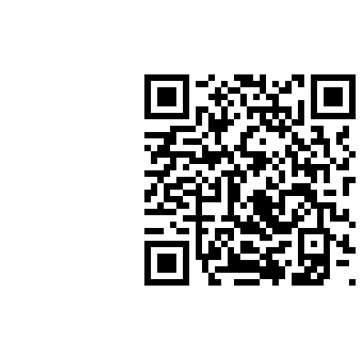
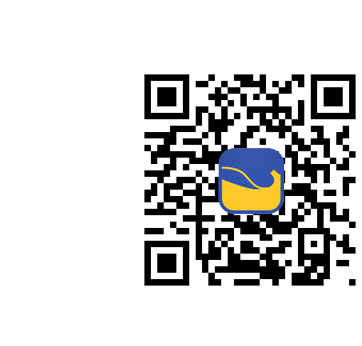
更改图片

Changed region(s): [[0.5773, 0.4046, 0.7901, 0.6358]]

diff --git a/src/views/portal/login/components/qrcode.vue b/src/views/portal/login/components/qrcode.vue
@@ -1,6 +1,6 @@
 <template>
   <div>
-    <img src="../assets/QR.png" class="qr-code" width="150" />
+    <img src="../assets/QR.png" class="qr-code" width="200" />
   </div>
 </template>
 
@@ -17,7 +17,7 @@ export default class Main extends ViewBase {
 <style lang='less' scoped>
 .qr-code {
   position: fixed;
-  bottom: 20px;
-  right: 30px;
+  bottom: 40px;
+  right: 50px;
 }
 </style>
